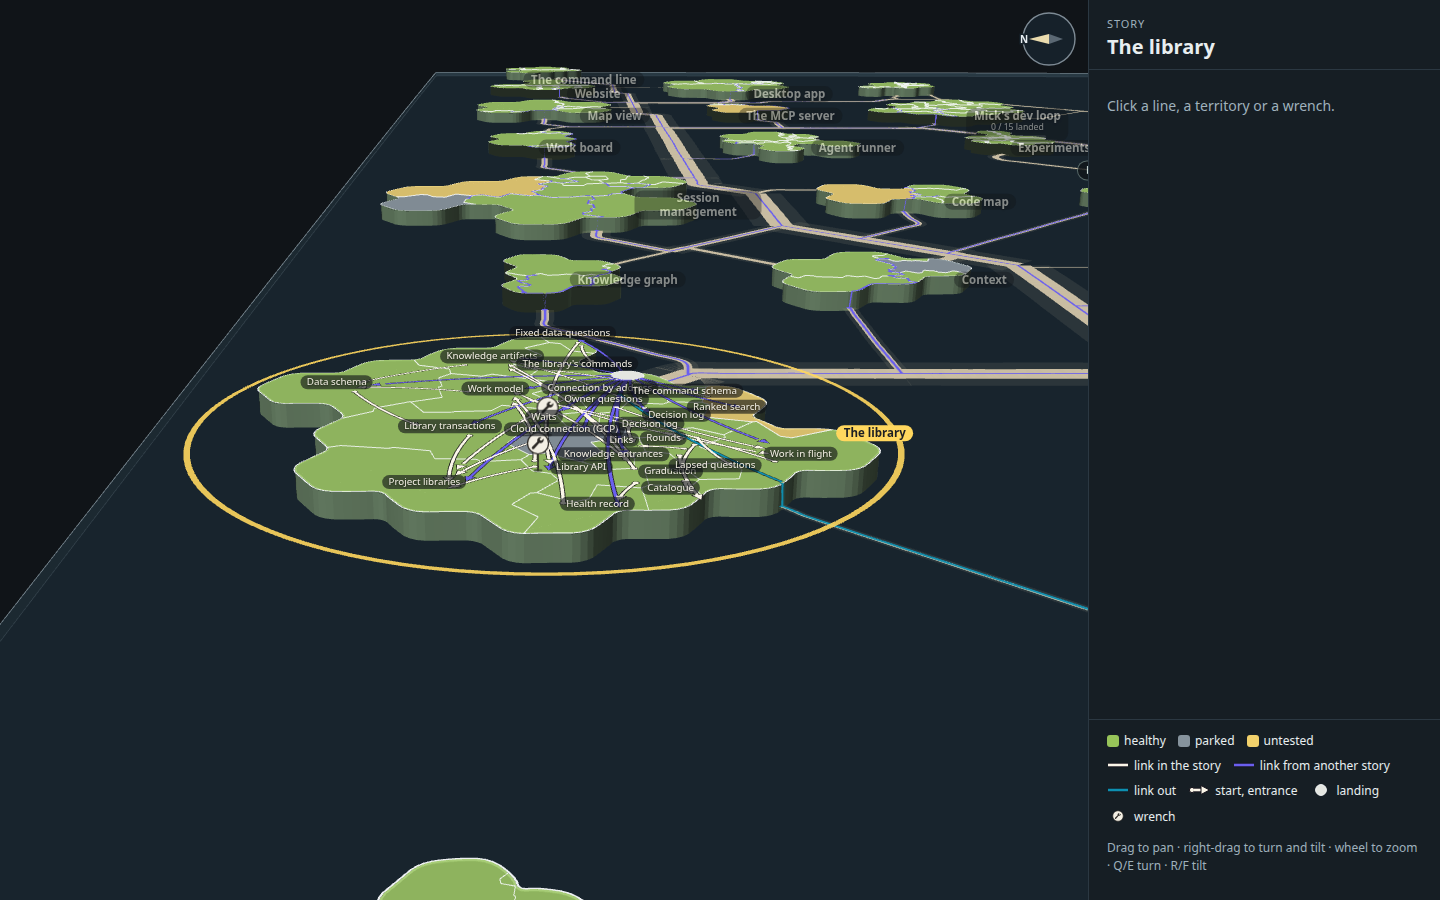
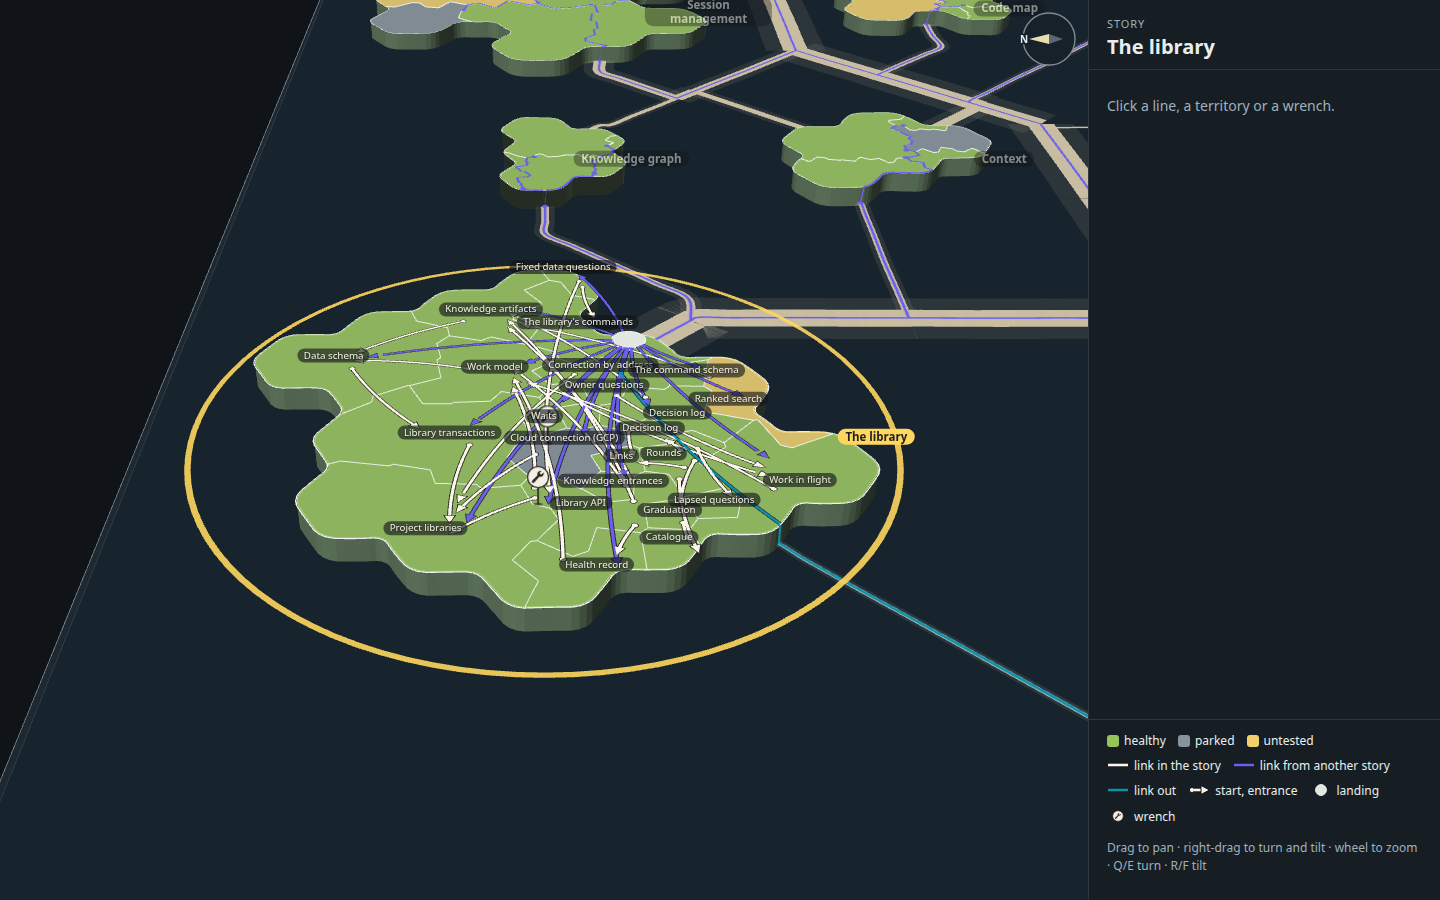
Round 7 mock: README, the orbit still tipped one step

diff --git a/docs/design/capability-tree-3d/d-overlay/README.md b/docs/design/capability-tree-3d/d-overlay/README.md
@@ -1,0 +1,136 @@
+# Capability tree, round 7: links as overlay lines through the territories
+
+The real map's view of The library selected, unchanged, with every link between its capabilities drawn as a line laid over
+the map: straight across whatever territories lie between, from a dot in the caller to an arrowhead beside the name of the
+capability it enters. The lanes from other islands stop at their dock on the coast instead of running along the borders,
+come ashore at a small landing, and fan out from there to each capability they serve.
+
+A mock only: it changes no product code (increment_b9ef202f2da6 on arc_9bbaa3497530).
+
+![Resting view](stills/resting.png)
+
+![The map today, beside round 7](stills/side-by-side.png)
+
+**Open it:** `index.html`, straight from disk; it needs no network. Drag to pan, right-drag (or Q/E and R/F) to turn and
+tilt, wheel to zoom: the map's own controls. Click a line, a territory or a wrench, and the panel on the right shows what it
+holds. `index.html?real` is the map as it is today, The library selected, nothing changed.
+
+## The idea
+
+A link is a line on top of the map, not a road on the ground, so it can take the straight way and cross territories, and
+where it ends is a mark of its own beside the name it enters, not a point somewhere on a shared border. The base is the
+map's own selected-story view, mounted from its own code (`@storytree/forest/view`'s `PlanetView`), territories, colours,
+thin white borders, names, roads and lanes as it draws them.
+
+## What is drawn
+
+| What | How |
+| --- | --- |
+| A link in the story | One line per `capability.dependsOn` link (27): a thread in the lanes' manner, a coloured strip with a thin dark casing, 0.35 units above the land. A quadratic curve bowed 8% of its length to its right, so a pair of links running opposite ways part. |
+| Start | A round dot in the caller's territory, beside its name on the side facing where the line goes. |
+| Entrance | An arrowhead in the called territory, beside its name on the side facing where the line comes from. A line only passing over a territory has no mark there. Each mark is kept 3 units (about 1.5 marks) clear of every name as the page draws it at rest, 5 units from every other mark and 1.1 units inside its territory's border; where a small territory has no such room the clearances ease (none needed it in this data: 0 marks fell back, 0 marks inside a name). |
+| From other stories | The map's lanes, drawn as the map draws them across the sea up to their dock; their stretch on this island's land (the way along the borders, ADR-0991 D4) is left undrawn, and their end marks on this island hidden. From the dock, as the data says (below): a landing and a fan line per capability served, ending on an entrance as a link in the story does. |
+| The landing | A disc of open ground, radius 6 units, edged in the territories' border white, set just inland of the dock. Each fan line leaves from its rim facing where it goes; a short thread joins the dock to the rim. |
+| Link out | Connection by address calls Keys: a line from a start dot in Connection by address straight to the dock where the map's lane to Keys leaves, in the lane's own colour. |
+| The wrench | 6C's wrench (its disc and spanner, `c-cartographer/index.html`'s symbol), set on a stem with a shadow so it stands upright and constant on screen as the claim flag does. It stands beside the capability's most central entrance (the one nearest its name), or where its own line leaves if nothing calls it, on the nearest spot where it covers no name, no other wrench and not the mark. |
+| Names | The map's own nameplates, unmoved. The map fades a name that overlaps another (ADR-0917); the mock keeps every one shown. |
+| Clicks | A line: the link (or, for a fan line, every link it carries) and the called capability's contracts, number and title; the line lights gold with a gold glow either side. A territory: its health, lines, description, contracts, what it calls and what calls it. A wrench: every arc and increment that names the capability. Nothing is hidden or dimmed. |
+
+## Styles
+
+Sizes are in the island's ground units (about 2.6 pixels each at rest); like the lanes, the lines widen as the map zooms in.
+
+| Mark | Style |
+| --- | --- |
+| Link in the story | thread `#fbf6e9`, 1.0 wide (the lanes' own thread width) |
+| Link from another story (fan lines, the landing's thread) | thread `#6a5fee`, the lanes' ink for what builds on the selection |
+| Link out | thread `#0d8fb0`, the lanes' ink for what the selection builds on |
+| Casing (every thread, dot and arrowhead) | `#15121a` at 85%, 0.28 each side |
+| Arrowhead | 3.6 long, 3.0 wide, the thread's colour, cased |
+| Start dot | radius 0.95, the thread's colour, cased |
+| Lit line | thread and marks `#ffc93c`, a glow `#ffc93c` at 55%, 3.4 threads wide |
+| Landing | ground `#e4e6e1`, edge `#f4f7f8` (the territories' border colour) |
+| Wrench | disc `#f3efe4`, ink `#2a2723` (6C's), lit edge `#ffc93c` |
+| Territories, borders, names | the map's own (`packages/forest/src/view/territory-land.ts`) |
+
+## What the arrival data showed
+
+Read from the map's own lanes (the links the selection lights, recorded and derived from the code alike) and the library on
+2026-11-02 (`data.json`'s `measuredAt`; `stills/shots.json`'s `layer` holds the counts):
+
+- **One arriving road.** The roads from the other islands join one another off the coast, so every lane into The library
+  comes ashore at one dock: 203 links from 21 stories, the map's main road (197) and a smaller road from the east that joins
+  it just offshore (6). The dock is on the coast of **The library's commands**, which is why the map seems to bring the
+  story's road in there.
+- **It serves 16 capabilities, so it lands on a landing.** Library API (47 links), Data schema (35), The command schema
+  (33), Health record (22), Work model (12), Work in flight (10), Project libraries (10), Waits (9), Library transactions
+  (7), Knowledge artifacts (5), Cloud connection (GCP) (5), Owner questions (3), Decision log (2), Knowledge entrances (1),
+  Fixed data questions (1), Ranked search (1).
+- **None of them is The library's commands.** No link from another story calls it, in the map's links or in the recorded
+  ones: the road arrives in its territory, but nothing it carries is for it.
+- **Recorded links alone** (`capability.dependsOn`, as the lines inside the story use): 22 links from 7 stories (14 from The
+  command line), serving 12 capabilities. It would still be a landing.
+- **So there is no direct landing in this data.** The rule is built (a road serving one capability runs straight from the
+  dock to that capability's entrance), but no arriving road meets it. The one road that lands directly is the one leaving:
+  Connection by address to Keys (`road-out.png`).
+- Open work names two of these capabilities: Cloud connection (GCP) (increment_dc514c1a7edb) and Library API
+  (increment_e266e8c3086e), so two wrenches.
+
+## Stills
+
+All taken by `tools/shots.mjs`, which clicks each mark where it stands on the page and checks the panel's heading.
+
+| Still | What it shows |
+| --- | --- |
+| `resting.png` | The resting view: the map's own view of The library selected, with the lines |
+| `whole-island.png` | Zoomed out to the whole island and its neighbours' roads |
+| `close-up.png` | Entrances close up, where Project libraries, Library transactions and Library API meet |
+| `orbited.png` | Turned and tipped by the map's own keys |
+| `line-contracts.png` | Library API calls Work model: the line lit, Work model's contracts open |
+| `arrival-line.png`, `arrival-landing.png` | The landing's line into Library API (47 links) lit, then the landing close up |
+| `road-out.png` | The road out: Connection by address calls Keys, lit, close up at the dock |
+| `territory.png` | Work in flight's description and contracts |
+| `wrench-open.png` | Library API's wrench open |
+| `real-today.png`, `side-by-side.png` | The map today, selected, beside round 7 |
+
+## Rebuild it
+
+From the checkout root, after `pnpm install`:
+
+```sh
+node --import tsx docs/design/capability-tree-3d/d-overlay/tools/measure.mjs   # data.json, from the library and the code
+node docs/design/capability-tree-3d/d-overlay/tools/build.mjs                  # index.html, page.js and page.css
+node --import tsx docs/design/capability-tree-3d/d-overlay/tools/shots.mjs --retake   # stills/
+```
+
+`tools/overlay.ts` lays the lines and marks on the island; `tools/page.tsx` mounts the map's own view; `tools/look.mjs`
+takes one quick still while drawing.
+
+## What I would look at next (for Mick; nothing built from these)
+
+1. **The starburst at the landing.** Sixteen lines leave one small landing and cross the whole island, because the road
+   serves sixteen capabilities. Lines heading the same way could leave together and split later, or the landing could
+   stand where most of what it serves is (the north-west), not where the map's dock happens to be.
+2. **The middle is busy.** Project libraries, Data schema and Library API take most of the arrows, and their lines cross
+   the centre in a fan. Sorting each territory's entrances round its name by where each line comes from (as now) helps the
+   ends; the middles might read better if lines into the same capability were drawn as one bundle until near the end.
+3. **Names now overlap at rest.** With none faded, Owner questions sits under Connection by address and Catalogue under
+   Graduation. The map fades one of each pair today; a name could move clear instead, or the rest view could sit one wheel
+   step closer.
+4. **Line width.** The lines widen as the map zooms, as the lanes do, so they are fine at rest and heavy close up. A width
+   constant on the screen, like the names and the wrench, may suit a mark laid on top of the map.
+5. **A direct landing to judge.** No arriving road serves one capability here, so the direct landing is built but not
+   seen. Splitting the arrival by story (The command line's 14 recorded links on one road, each other story on its own)
+   would show both kinds, at the cost of more lines.
+
+## Earlier rounds (arc_9bbaa3497530; increment_841d720e4fb7 and question_752b6ef53b90 hold more)
+
+| Round | What it tried | Mick's words | Where |
+| --- | --- | --- | --- |
+| 1 | Stone walls on every territory border, cobbled paths straight across | "looks very cramped, pathways look a mess" | PR #218 |
+| 2 | Each capability a square walled field in columns by dependency | "looks quite nice but ... every capability a square block" | PR #230 |
+| 3 | The map's territories with castle walls on every border | "looks quite noisy, theres too much wall" | stopped |
+| 4 | A walled town inset in each territory, roads between | "still looks vergy noisy. Lets not go with the walls" | PR #237 |
+| 5 | No walls; dashed borders, solid roads along them, a gap per gate | "this needs a rethink, feels like the architecture diagram looked nicer" | PR #240 |
+| 6A, 6B, 6C | A flowchart in the map's clothes; a circuit board; a free cartographer's chart | none looked good; "6C has a nice wrench icon though that we should use going forward" | `a-stone/`, `b-circuit/`, `c-cartographer/` |
+| 7 | This: the real selected view, links as lines through territories | | here |
